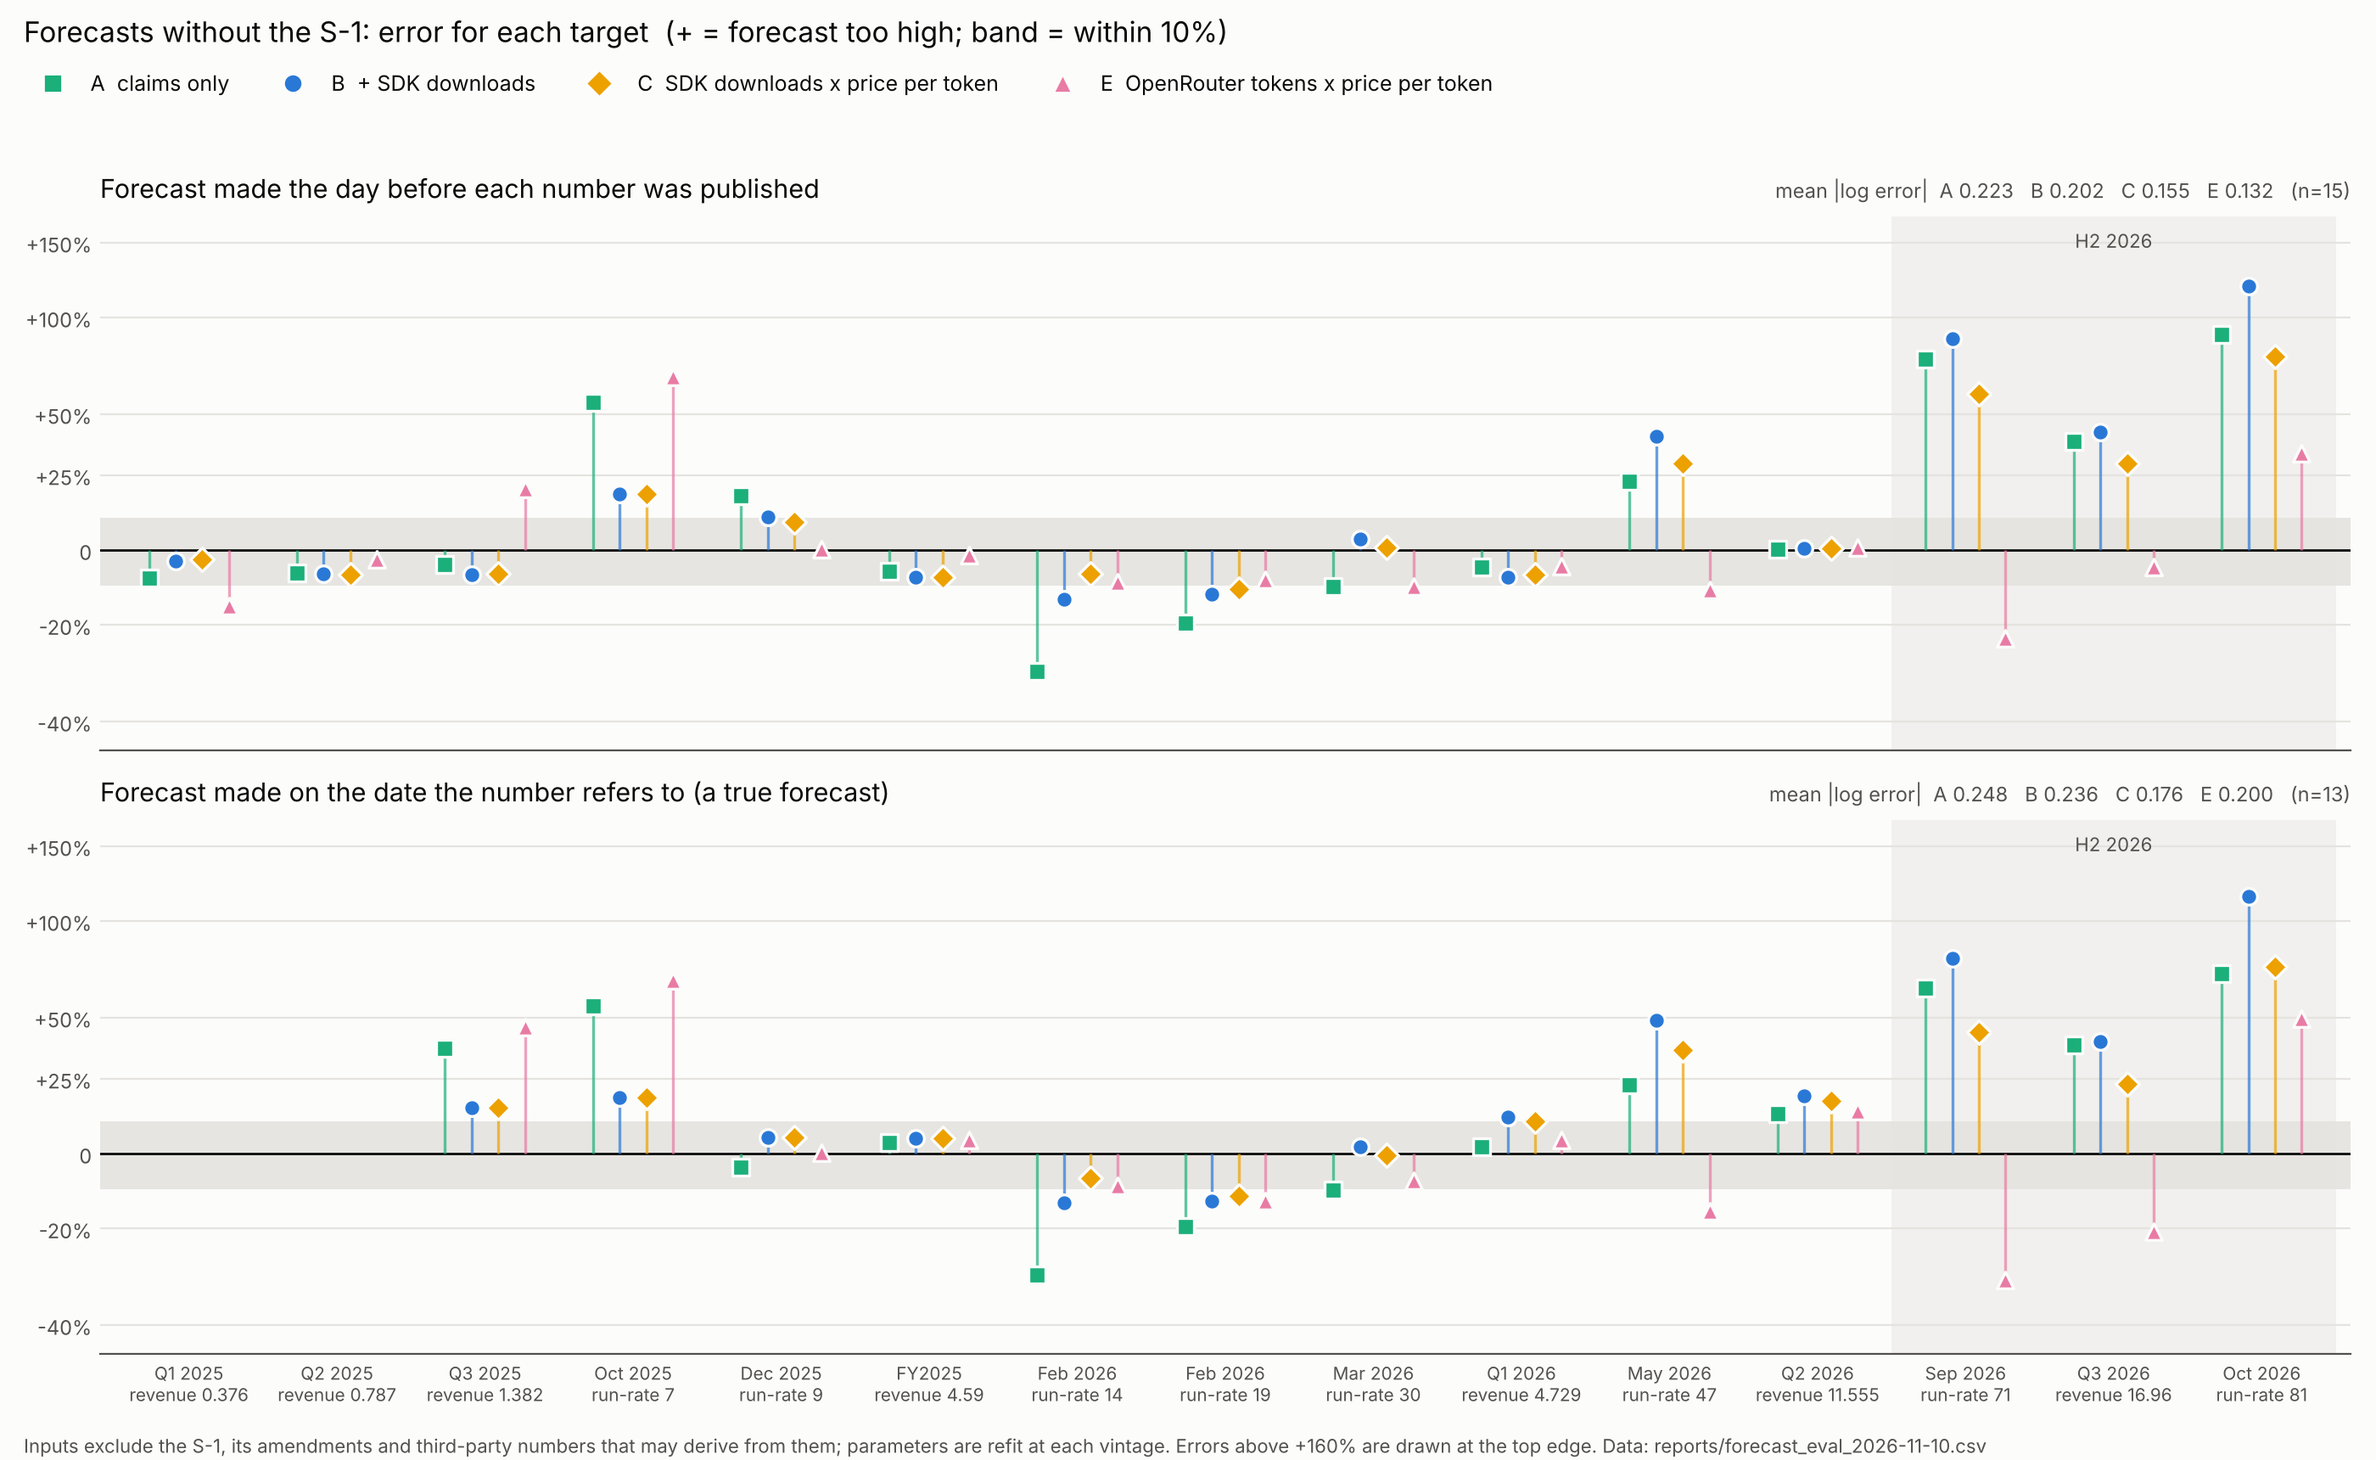
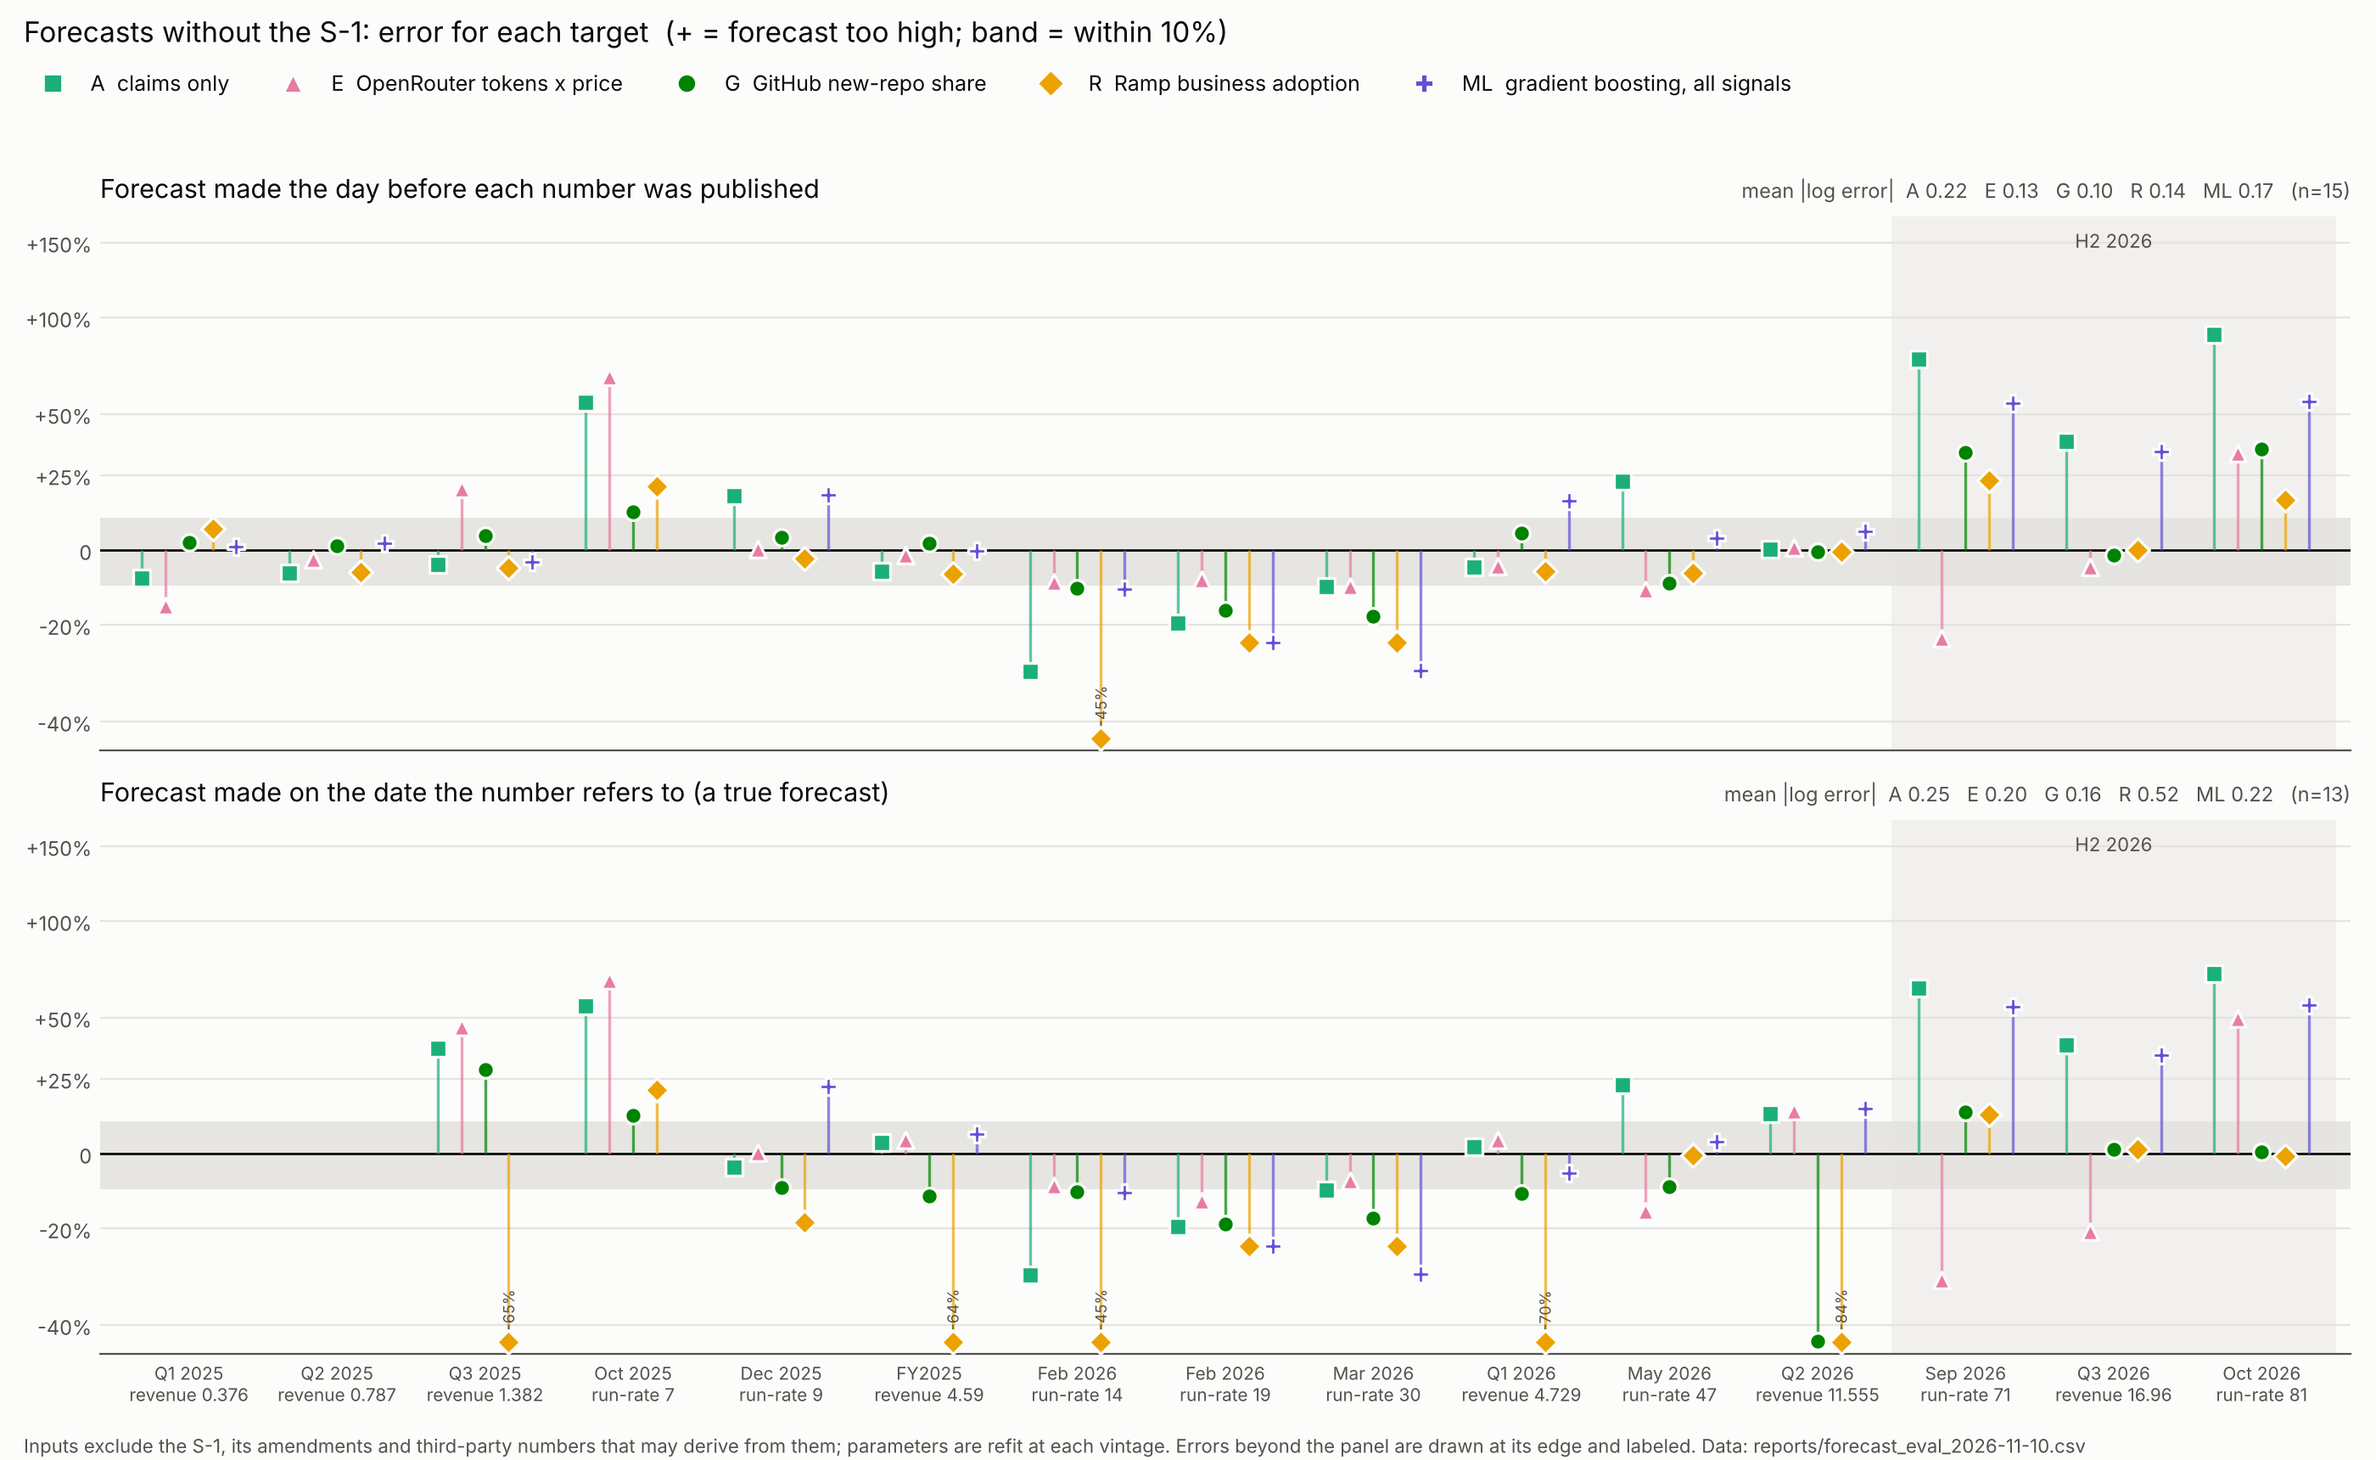
Charts: no-filing forecasts vs actual values, and errors, for the current best variants
reports/forecast_vs_actual_nofiling_2026-11-10.png: actual run-rates and quarterly revenue
(black) against forecasts with 80% intervals for claims only, OpenRouter tokens x price, GitHub
new-repo share, Ramp business adoption and gradient boosting on all signals, at both vintage
rules. reports/forecast_errors_nofiling_2026-11-10.png redrawn for the same variants;
errors beyond the panel are drawn at its edge and labeled. forecast_eval keeps 80% intervals
and the all-signal gradient-boosting forecasts.

Claude-Session: https://claude.ai/code/session_015VYmrmy85RRK3RPhYBL95Z

diff --git a/runrate_nowcast/plot_signals.py b/runrate_nowcast/plot_signals.py
@@ -20,6 +20,7 @@ from . import altdata, config, data, forecast_eval, pricing
 from .plot import AQUA, BLUE, GRID, INK, INK2, SURFACE
 
 YELLOW, MAGENTA = "#eda100", "#e87ba4"          # categorical slots 4 and 5 (validated with 1-3, all pairs)
+GREEN, VIOLET = "#008300", "#6250d6"            # slots 6 and 7; {aqua, magenta, green, yellow, violet} validated all pairs
 BASE = pd.Timestamp("2026-01-08")
 START, END = pd.Timestamp("2025-11-15"), pd.Timestamp("2026-11-08")
 Q3 = (pd.Timestamp("2026-07-01"), pd.Timestamp("2026-09-30"))
@@ -136,11 +137,12 @@ def plot_signals(path: str):
     return path
 
 
-MODELS = [  # label in forecast_eval, legend label, color, marker
+MODELS = [  # label in forecast_eval, legend label, color, marker. Shapes double the colors (CVD floor band).
     ("A claims only", "A  claims only", AQUA, "s"),
-    ("B + indicators", "B  + SDK downloads", BLUE, "o"),
-    ("C price-adjusted (github, gamma 1)", "C  SDK downloads x price per token", YELLOW, "D"),
-    ("E OpenRouter tokens x price", "E  OpenRouter tokens x price per token", MAGENTA, "^"),
+    ("E OpenRouter tokens x price", "E  OpenRouter tokens x price", MAGENTA, "^"),
+    ("G GitHub new-repo share", "G  GitHub new-repo share", GREEN, "o"),
+    ("R Ramp adoption", "R  Ramp business adoption", YELLOW, "D"),
+    ("ML gbm all signals (interp)", "ML  gradient boosting, all signals", VIOLET, "P"),
 ]
 
 
@@ -179,11 +181,11 @@ def plot_errors(path: str, asof: str = "2026-11-10"):
             ax.axvspan(min(h2) - 0.5, max(h2) + 0.5, color=GRID, alpha=0.45, lw=0)
         ax.axhspan(math.log(0.9), math.log(1.1), color=GRID, alpha=0.9, lw=0)
         ax.axhline(0, color=INK, lw=1)
-        offs = np.linspace(-0.27, 0.27, len(MODELS))
+        offs = np.linspace(-0.32, 0.32, len(MODELS))
         for (key, label, color, mk), off in zip(MODELS, offs):
             h = g[g.model == key]
             x = h.target.map(xpos).to_numpy(float) + off
-            y = h.y.clip(upper=math.log(2.6)).to_numpy()
+            y = h.y.clip(lower=math.log(0.57), upper=math.log(2.6)).to_numpy()
             ax.vlines(x, 0, y, color=color, lw=1.2, alpha=0.7)
             ax.scatter(x, y, marker=mk, s=50, color=color, edgecolors=SURFACE, linewidths=1.2, zorder=4)
         ax.set_yticks([math.log(1 + p / 100) for p in pct])
@@ -192,20 +194,96 @@ def plot_errors(path: str, asof: str = "2026-11-10"):
         mae = g.assign(a=g.log_err.abs()).groupby("model").a.mean()
         n = g.groupby("model").size()
         ax.set_title(titles[rule], loc="left", fontsize=11, color=INK, pad=8)
-        ax.set_title("mean |log error|  " + "   ".join(f"{lab.split('  ')[0]} {mae.get(k, np.nan):.3f}"
+        ax.set_title("mean |log error|  " + "   ".join(f"{lab.split('  ')[0]} {mae.get(k, np.nan):.2f}"
                                                         for k, lab, _, _ in MODELS) + f"   (n={int(n.max())})",
                      loc="right", fontsize=8.5, color=INK2, pad=8)
         if h2:
             ax.text(np.mean(h2), math.log(2.6), "H2 2026", ha="center", va="top", fontsize=8, color=INK2)
+        for (key, label, color, mk), off in zip(MODELS, offs):        # label errors drawn at the panel edge
+            h = g[g.model == key]
+            for r in h[(h.y < math.log(0.57)) | (h.y > math.log(2.6))].itertuples():
+                yy = math.log(0.57) if r.y < 0 else math.log(2.6)
+                ax.annotate(f"{100 * (math.exp(r.y) - 1):+.0f}%", (xpos[r.target] + off, yy), fontsize=6.5, color=INK2,
+                            ha="center", va="bottom" if r.y < 0 else "top", xytext=(0, 5 if r.y < 0 else -5),
+                            textcoords="offset points", rotation=90)
     axes[1].set_xticks(range(len(order)))
     axes[1].set_xticklabels([_target_label(obs.loc[t]) for t in order], fontsize=7.5)
     axes[1].set_xlim(-0.6, len(order) - 0.4)
     handles = [Line2D([], [], marker=mk, ls="", color=c, markeredgecolor=SURFACE, ms=8, label=lab) for _, lab, c, mk in MODELS]
     fig.suptitle("Forecasts without the S-1: error for each target  (+ = forecast too high; band = within 10%)",
                  x=0.01, y=0.99, ha="left", fontsize=12, color=INK)
-    fig.legend(handles=handles, loc="upper left", ncol=4, frameon=False, fontsize=9, labelcolor=INK, bbox_to_anchor=(0.005, 0.965))
+    fig.legend(handles=handles, loc="upper left", ncol=5, frameon=False, fontsize=9, labelcolor=INK, bbox_to_anchor=(0.005, 0.965))
     fig.text(0.01, 0.005, "Inputs exclude the S-1, its amendments and third-party numbers that may derive from them; parameters are refit at "
-             "each vintage. Errors above +160% are drawn at the top edge. Data: reports/forecast_eval_" + asof + ".csv",
+             "each vintage. Errors beyond the panel are drawn at its edge and labeled. Data: reports/forecast_eval_" + asof + ".csv",
+             fontsize=8, color=INK2)
+    fig.tight_layout(rect=(0, 0.02, 1, 0.94))
+    fig.savefig(path, dpi=200, facecolor=SURFACE)
+    plt.close(fig)
+    return path
+
+
+def plot_forecasts(path: str, asof: str = "2026-11-10"):
+    """Actual values (black) vs the forecast of each model, with 80% intervals where the model has one.
+    Rows: run-rate targets, quarterly revenue targets. Columns: the two vintage rules. Log scale."""
+    import matplotlib
+    matplotlib.use("Agg")
+    import matplotlib.pyplot as plt
+    import matplotlib.dates as mdates
+    from matplotlib.lines import Line2D
+    from matplotlib.ticker import FixedLocator, NullLocator
+
+    d = forecast_eval.collect(asof)
+    obs = data.load().set_index("obs_id")
+    d = d[d.model.isin([m[0] for m in MODELS])].copy()
+    d["date"] = [obs.loc[t, "period_end"] if m == "revenue" else obs.loc[t, "ref_date"] for t, m in zip(d.target, d.metric)]
+    d["days"] = [(obs.loc[t, "period_end"] - obs.loc[t, "period_start"]).days if m == "revenue" else 0
+                 for t, m in zip(d.target, d.metric)]
+    d = d[~((d.metric == "revenue") & (d.days > 100))]          # FY2025 is annual: left out of the quarterly panel
+    fig, axes = plt.subplots(2, 2, figsize=(14, 9.2), sharex=True)
+    fig.patch.set_facecolor(SURFACE)
+    cols = {"publication": "Forecast the day before each number was published",
+            "period_end": "Forecast on the date the number refers to (a true forecast)"}
+    rows = {"run_rate": ("Run-rate, $B", [5, 10, 20, 40, 80, 160, 320], (4, 350)),
+            "revenue": ("Quarterly revenue, $B", [0.25, 0.5, 1, 2, 4, 8, 16, 32], (0.2, 40))}
+    span = pd.Timedelta(days=24)
+    offs = np.linspace(-1, 1, len(MODELS)) * span / 2
+    for j, rule in enumerate(("publication", "period_end")):
+        for i, metric in enumerate(("run_rate", "revenue")):
+            ax = axes[i, j]
+            _style(ax)
+            ax.set_yscale("log")
+            g = d[(d.rule == rule) & (d.metric == metric)]
+            act = g.drop_duplicates("target")
+            for (key, label, color, mk), off in zip(MODELS, offs):
+                h = g[g.model == key]
+                x = pd.to_datetime(h.date) + off
+                if h.q10.notna().any():
+                    ax.vlines(x, h.q10, h.q90, color=color, lw=1.4, alpha=0.55)
+                ax.scatter(x, h.forecast.clip(upper=rows[metric][2][1] * 0.97), marker=mk, s=40, color=color,
+                           edgecolors=SURFACE, linewidths=1.0, zorder=4)
+            ax.scatter(pd.to_datetime(act.date), act.actual, marker="_", s=420, color=INK, linewidths=2.4, zorder=5)
+            for r in act.itertuples():
+                ax.annotate(f"{r.actual:g}", (pd.Timestamp(r.date), r.actual), xytext=(14, -3), textcoords="offset points",
+                            fontsize=7.5, color=INK2, va="top")
+            ticks = rows[metric][1]
+            ax.yaxis.set_major_locator(FixedLocator(ticks))
+            ax.yaxis.set_minor_locator(NullLocator())
+            ax.set_yticklabels([f"{t:g}" for t in ticks])
+            ax.set_ylim(*rows[metric][2])
+            if i == 0:
+                ax.set_title(cols[rule], loc="left", fontsize=11, color=INK, pad=8)
+            if j == 0:
+                ax.set_ylabel(rows[metric][0], color=INK2, fontsize=9)
+    for ax in axes[1]:
+        ax.xaxis.set_major_locator(mdates.MonthLocator(bymonth=[1, 4, 7, 10]))
+        ax.xaxis.set_major_formatter(mdates.DateFormatter("%b %Y"))
+    handles = [Line2D([], [], marker="_", ls="", color=INK, ms=16, markeredgewidth=2.4, label="Actual")]
+    handles += [Line2D([], [], marker=mk, ls="", color=c, markeredgecolor=SURFACE, ms=8, label=lab) for _, lab, c, mk in MODELS]
+    fig.suptitle("Forecasts without the S-1 vs actual values  (vertical bars: 80% interval where the model gives one; log scale)",
+                 x=0.01, y=0.99, ha="left", fontsize=12, color=INK)
+    fig.legend(handles=handles, loc="upper left", ncol=6, frameon=False, fontsize=9, labelcolor=INK, bbox_to_anchor=(0.005, 0.965))
+    fig.text(0.01, 0.005, "Actuals: official run-rates and S-1 quarterly revenue (FY2025 left out). Inputs exclude the S-1 and numbers derived "
+             "from it; parameters refit at each vintage. Forecasts above the panel are drawn at its top. Data: reports/forecast_eval_" + asof + ".csv",
              fontsize=8, color=INK2)
     fig.tight_layout(rect=(0, 0.02, 1, 0.94))
     fig.savefig(path, dpi=200, facecolor=SURFACE)
@@ -216,4 +294,5 @@ def plot_errors(path: str, asof: str = "2026-11-10"):
 def run(asof: str = "2026-11-10"):
     p1 = plot_signals(os.path.join(config.OUTPUT_DIR, f"signals_{asof}.png"))
     p2 = plot_errors(os.path.join(config.OUTPUT_DIR, f"forecast_errors_nofiling_{asof}.png"), asof)
-    return p1, p2
+    p3 = plot_forecasts(os.path.join(config.OUTPUT_DIR, f"forecast_vs_actual_nofiling_{asof}.png"), asof)
+    return p1, p2, p3

diff --git a/runrate_nowcast/forecast_eval.py b/runrate_nowcast/forecast_eval.py
@@ -40,7 +40,8 @@ def collect(asof: str = "2026-11-10", reports_dir: str = config.OUTPUT_DIR) -> p
                 for r in s.dropna(subset=[f"log_err_model_{key}"]).itertuples():
                     rows.append({"rule": rule, "model": name, "target": r.target, "metric": r.metric, "vintage": r.vintage,
                                  "actual": r.actual, "forecast": getattr(r, f"forecast_{key}"),
-                                 "log_err": getattr(r, f"log_err_model_{key}"), "z": getattr(r, f"z_{key}")})
+                                 "log_err": getattr(r, f"log_err_model_{key}"), "z": getattr(r, f"z_{key}"),
+                                 "q10": getattr(r, f"q10_{key}"), "q90": getattr(r, f"q90_{key}")})
         f = os.path.join(reports_dir, f"forecast_bayes_{rule}_{asof}.csv")
         if os.path.exists(f):
             b = pd.read_csv(f)
@@ -78,20 +79,23 @@ def collect(asof: str = "2026-11-10", reports_dir: str = config.OUTPUT_DIR) -> p
                      "gh_share": "G GitHub new-repo share"}.get(variant, f"E {variant}")
             for r in pd.read_csv(f).itertuples():
                 rows.append({"rule": rule, "model": label, "target": r.target, "metric": r.metric, "vintage": r.vintage,
-                             "actual": r.actual, "forecast": r.forecast, "log_err": r.log_err_model, "z": r.z})
+                             "actual": r.actual, "forecast": r.forecast, "log_err": r.log_err_model, "z": r.z,
+                             "q10": r.q10, "q90": r.q90})
         for f in sorted(glob.glob(os.path.join(reports_dir, f"forecast_all_*_{rule}_{asof}.csv"))):
             variant = re.match(r".*forecast_all_(.+?)_" + rule + "_", f).group(1)
             label = {"all_price": "F all signals x price", "all_raw": "F all signals",
                      "core_price": "F core signals x price (selected by backtest)"}.get(variant, f"F {variant}")
             for r in pd.read_csv(f).itertuples():
                 rows.append({"rule": rule, "model": label, "target": r.target, "metric": r.metric, "vintage": r.vintage,
-                             "actual": r.actual, "forecast": r.forecast, "log_err": r.log_err_model, "z": r.z})
+                             "actual": r.actual, "forecast": r.forecast, "log_err": r.log_err_model, "z": r.z,
+                             "q10": r.q10, "q90": r.q90})
         f = os.path.join(reports_dir, f"forecast_mlall_{rule}_{asof}.csv")
         if os.path.exists(f):
             m = pd.read_csv(f)
-            for r in m[m.model == "ridge"].itertuples():
+            for r in m[m.model.isin(["ridge", "gbm"])].itertuples():
                 act = float(obs.loc[r.target, "value"])
-                rows.append({"rule": rule, "model": f"ML all signals ({r.labels})", "target": r.target, "metric": r.metric,
+                name = f"ML all signals ({r.labels})" if r.model == "ridge" else f"ML gbm all signals ({r.labels})"
+                rows.append({"rule": rule, "model": name, "target": r.target, "metric": r.metric,
                              "vintage": r.vintage, "actual": act, "forecast": act / math.exp(r.log_err),
                              "log_err": r.log_err, "z": np.nan})
     d = pd.DataFrame(rows)
